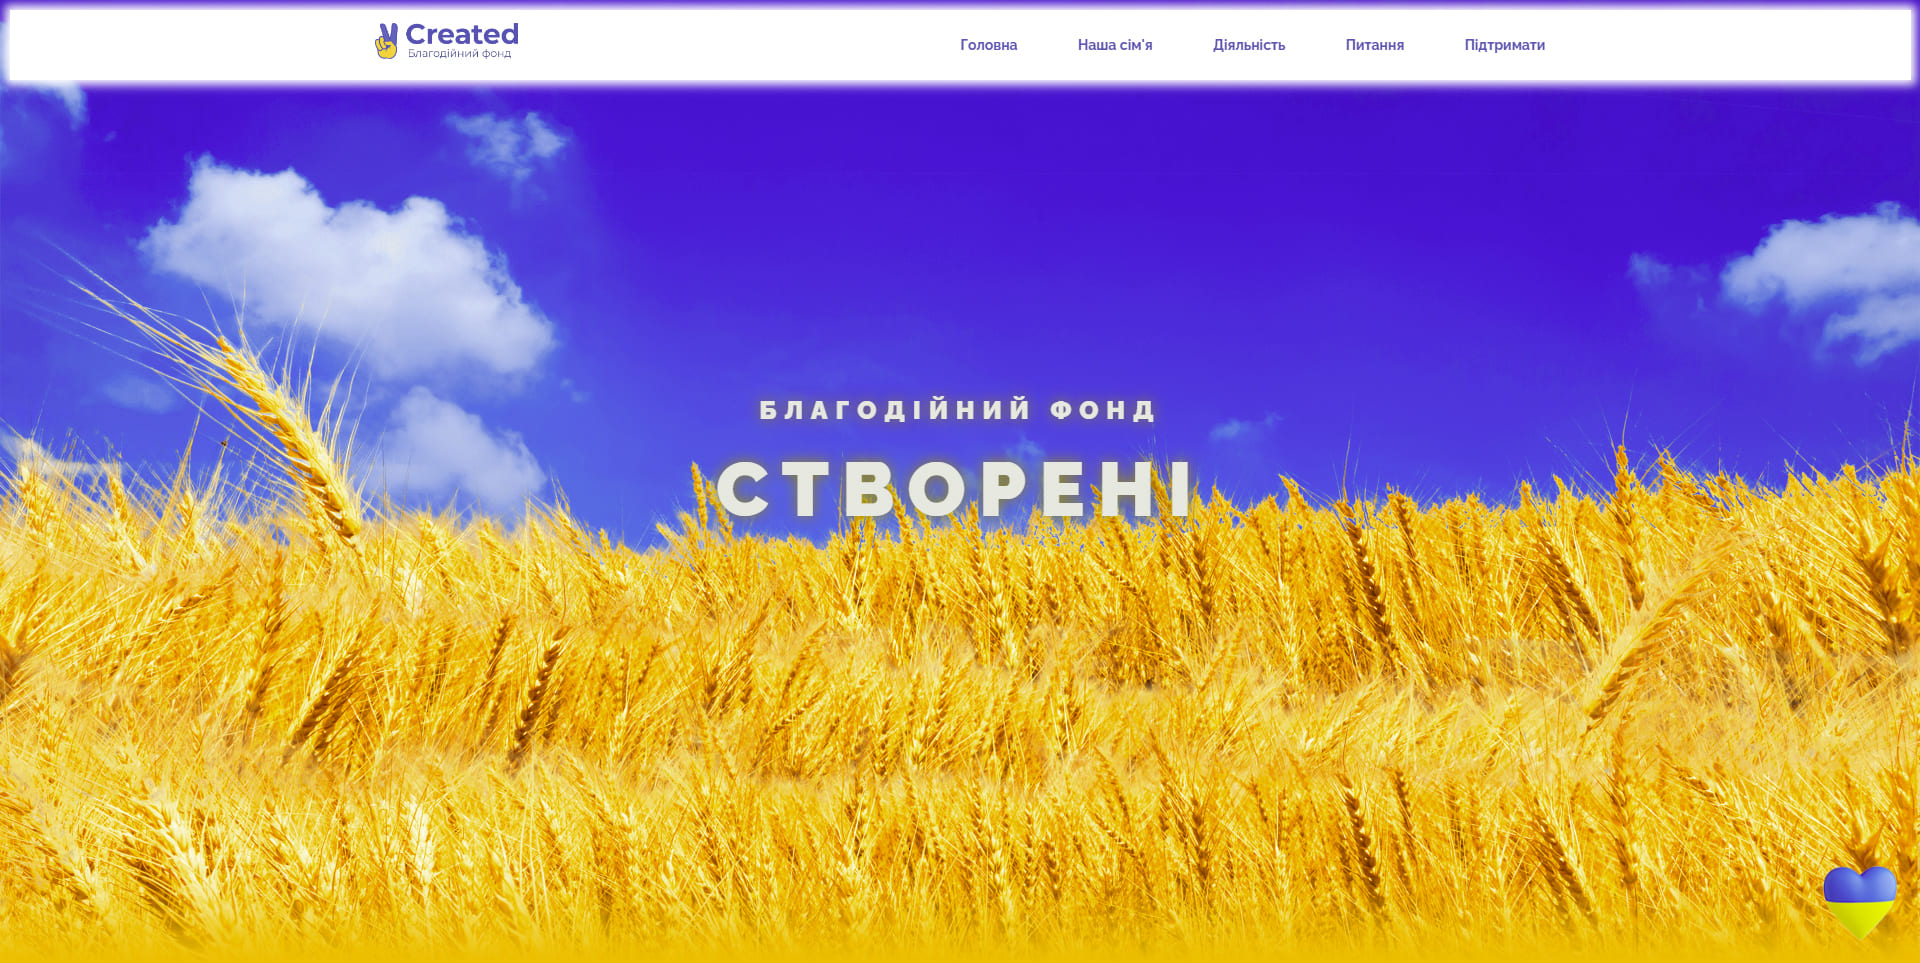
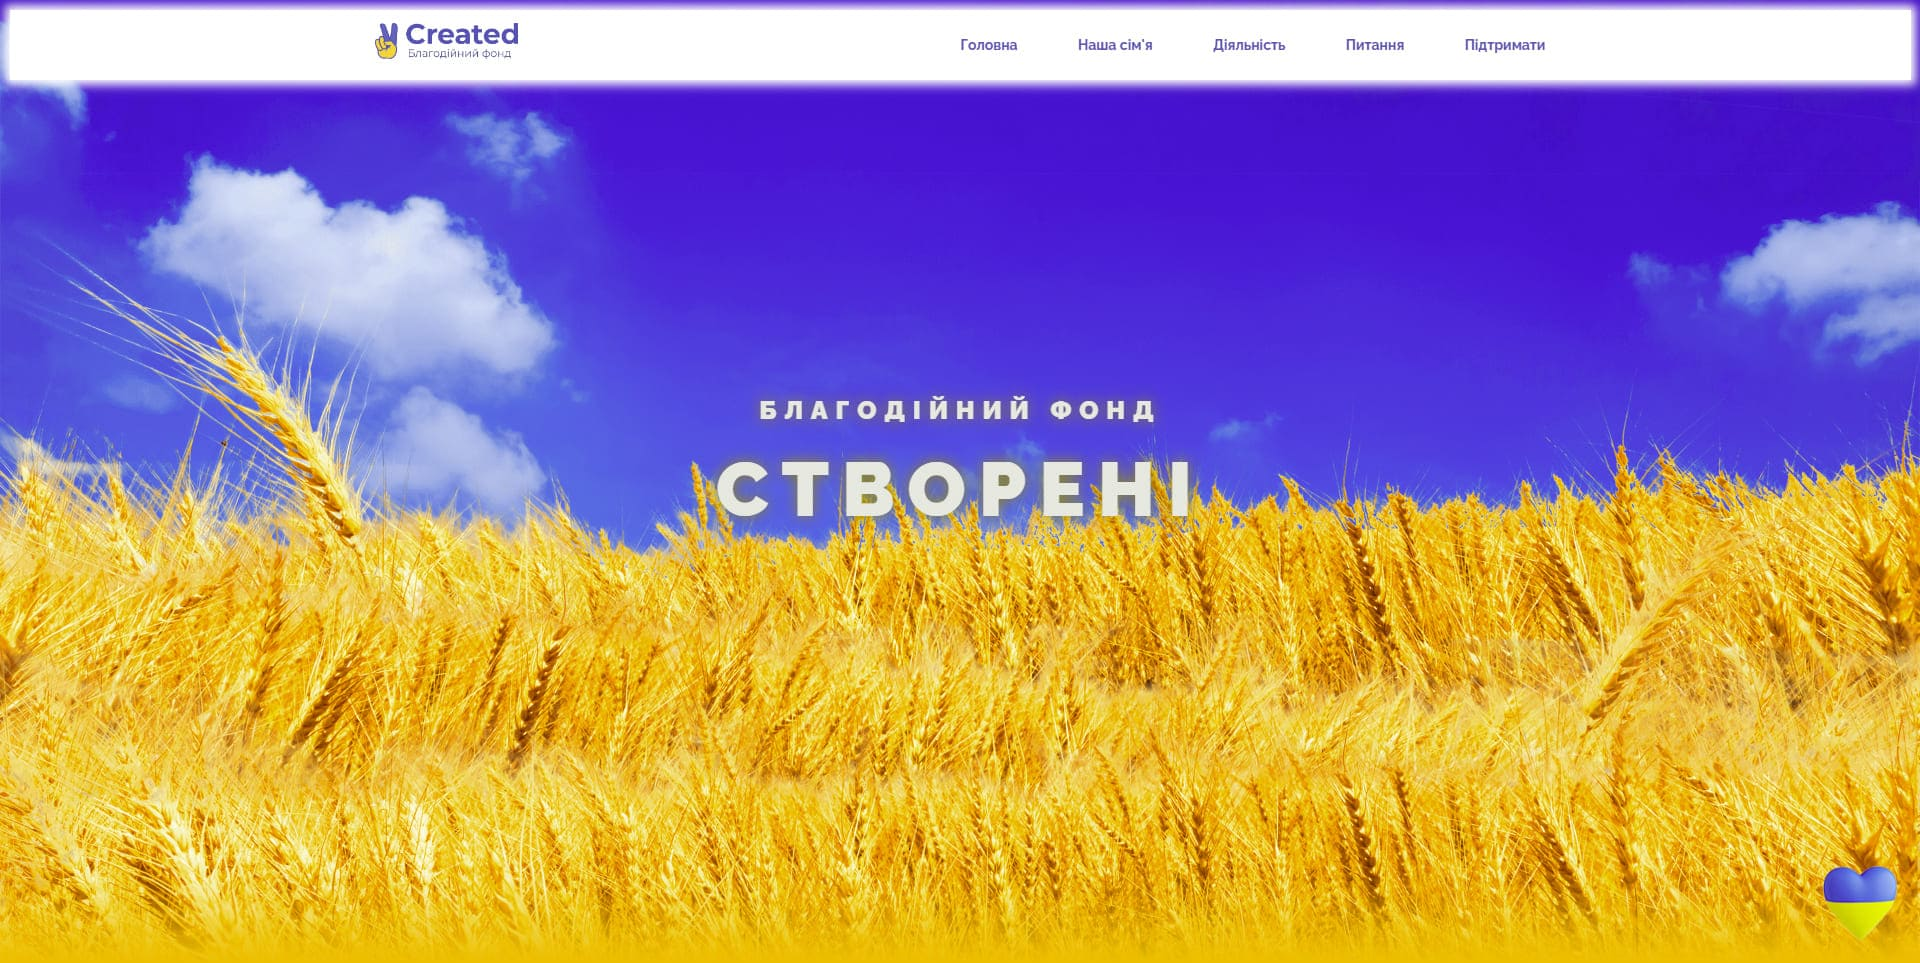
burger menu

diff --git a/src/components/Nav/Nav.tsx b/src/components/Nav/Nav.tsx
@@ -1,25 +1,32 @@
-import React from 'react';
-import Link from "next/link"
-import styles from './styles.module.css'
+"use client"
+import React, { useState } from 'react';
+import Link from "next/link";
+import styles from './styles.module.css';
 import Image from 'next/image';
-import logo from '../../../public/img/logo_reklamax.png'
+import logo from '../../../public/img/logo_reklamax.png';
 import MenuSvg from '../Svg/Menu/Menu';
 
 function Nav() {
+    const [click, setClick] = useState('');
+
+    const handleNavSvgClick = () => {
+        // Если текущее значение click равно 'active', убираем класс, иначе добавляем
+        setClick((prevClick) => (prevClick === 'active' ? '' : 'active'));
+    };
 
     return (
         <div className={styles.nav}>
-          <Image className={styles.logo} src={logo} alt="logo"/>
-          <div className={styles.navSvg}>
-            <MenuSvg/>
-          </div>
-          <div className={styles.navLinks}>
-            <Link href="/">Головна</Link>
-            <Link href="/products">Проекти</Link>
-            <Link href="/create">Створити</Link>
-          </div>
+            <Image priority={true} className={styles.logo} src={logo} alt="logo"/>
+            <div className={`${styles.navSvg} ${click === 'active' ? styles.navSvgActive : ''}`} onClick={handleNavSvgClick}>
+                <MenuSvg/>
+            </div>
+            <div className={`${styles.navLinks} ${click === 'active' ? styles.navLinksActive : ''}`}>
+                <Link href="/">Головна</Link>
+                <Link href="/products">Проекти</Link>
+                <Link href="/create">Створити</Link>
+            </div>
         </div>
-    )
-  }
-  
-  export default Nav
+    );
+}
+
+export default Nav;

diff --git a/src/components/Nav/styles.module.css b/src/components/Nav/styles.module.css
@@ -1,5 +1,6 @@
 .nav {
     position: relative;
+    z-index: 4;
     background-color: #000000;
     width: 100%;
     height: 60px;
@@ -57,7 +58,7 @@
         position: absolute;
         top: 70px;
         left: 0px;
-        z-index: 5;
+        z-index: 3;
         display: flex;
         flex-direction: column;
         justify-content: center;
@@ -66,10 +67,23 @@
         border: 1px solid #fff;
         box-shadow: 0 0 2px #ffffff;
         border-radius: 10px;
+        transform: translateY(-120%);
+        opacity: 0;
+        transition: all 0.2s;
+    }
+
+    .navLinksActive {
+        opacity: 1;
+        transform: translateY(0%);
     }
 
     .navSvg {
         display: block;
+        transition: all 0.2s;
+    }
+
+    .navSvgActive {
+        transform: rotate(180deg);
     }
     
     .navSvg svg {
@@ -77,13 +91,15 @@
         transition: all 0.2s;
     }
     
-    .navSvg svg:hover {
-        transform: rotate(180deg);
-    }
-    
     .navSvg svg:active {
         position: relative;
         top: 2px;
         stroke: #46c2a0 !important;
+    }
+
+    .nav a {
+        margin-right: 0px;
+        padding: 10px;
+        font-size: 36px;
     }
 }

diff --git a/src/components/Footer/Footer.tsx b/src/components/Footer/Footer.tsx
@@ -1,16 +1,18 @@
 import React from 'react';
-import styles from './styles.module.css'
+import Link from 'next/link';
+import Image from 'next/image';
+import logoMini from '../../../public/img/Logo_reklamaxMini.png';
 import CopyrightSvg from '../Svg/CopyrightSvg/CopyrightSvg';
 import InstaSvg from '../Svg/InstaSvg/InstaSvg';
 import TgSvg from '../Svg/TgSvg/TgSvg';
 import GmailSvg from '../Svg/GmailSvg/GmailSvg';
-import Link from 'next/link';
+import styles from './styles.module.css'
 
 function Footer() {
     return (
         <footer className={styles.footer}>
             <div className={styles.flex}>
-                <div className={styles.gif}></div>
+                <Image src={logoMini} className={styles.gif} alt='error img'/>
                 <div className={styles.links}>
                     <Link href="/" className={styles.link}>Головна</Link>
                     <Link href="/products" className={styles.link}>Проекти</Link>

diff --git a/src/app/products/[productId]/page.tsx b/src/app/products/[productId]/page.tsx
@@ -1,7 +1,6 @@
 import { Metadata } from "next";
 import ParticleAnimation from "@/components/particleAnimation/ParticleAnimation";
 import { projects } from "@/helpers/projectList";
-import Image from "next/image";
 import Footer from "@/components/Footer/Footer";
 import Nav from "@/components/Nav/Nav";
 import styles from "../../../styles/project.module.css";
@@ -40,7 +39,6 @@ export default function ProductDetails({ params }: Props) {
           <Nav />
           <div className={styles.proX}>
             <div className={styles.projectX}>
-              {/* <Image src={project.imgBig} alt="error" className={styles.project__imgX} width={800} height={600} /> */}
               <iframe className={styles.project__imgX} src={project.link}></iframe>
               <div className={styles.project__titleHoldX}>
                 <h3 className={styles.project__titleX}>{project.title}</h3>

diff --git a/src/components/About/styles.module.css b/src/components/About/styles.module.css
@@ -40,6 +40,7 @@
     box-shadow: 0 0 2px #ffffff;
     transition-delay: 1s;
 }
+
 .block5:hover {
     border: 1px solid #46c2a0;
     box-shadow: 0 0 2px #46c2a0;
@@ -111,4 +112,33 @@
 .btn:active {
     position: relative;
     bottom: -2px;
+}
+
+@media (max-width: 430px) {
+    .info {
+        flex-direction: column;
+        align-items: center;
+    }
+
+    .block1,.block2,.block3,.block4,.block5 {
+        margin: 20px;
+    }
+
+    .line {
+        content: "";
+        width: 2px;
+        height: 0px;
+        background-color: #46c2a0;
+        box-shadow: 0 0 2px #46c2a0;
+        position: absolute;
+        top: 30px;
+        left: 210px;
+        z-index: -1;
+        transition: height 1.8s ease;
+    }
+
+    .about:hover .line {
+        height: 1100px;
+        width: 2px;
+    }
 }

diff --git a/src/styles/globals.css b/src/styles/globals.css
@@ -50,6 +50,17 @@ body::-webkit-scrollbar-thumb:hover {
   overflow: hidden;
 }
 
+iframe {
+  overflow: hidden;
+  scrollbar-width: none;
+  -ms-overflow-style: none;
+  overflow: -moz-scrollbars-none;
+}
+
+iframe::-webkit-scrollbar {
+  display: none;
+}
+
 a {
   text-decoration: none;
   color: white;
@@ -58,7 +69,7 @@ a {
 .main {
   width: 100%;
   position: relative;
-  z-index: 3;
+  z-index: 4;
 }
 
 .container {

diff --git a/src/components/Footer/styles.module.css b/src/components/Footer/styles.module.css
@@ -36,7 +36,6 @@
 .gif {
     width: 150px;
     height: 150px;
-    background-color: red;
     margin: 10px;
 }
 
@@ -100,4 +99,12 @@
     font-size: 16px;
     margin-left: 10px;
     color: #fff;
+}
+
+@media (max-width: 430px) {
+    .flex2 {
+        flex-direction: column-reverse;
+        align-items: center;
+        padding: 10px 0px;
+    }
 }

diff --git a/src/styles/project.module.css b/src/styles/project.module.css
@@ -118,3 +118,17 @@
 .skillsX {
   color: white;   
 }
+
+@media (max-width: 430px) {
+  .projectsHold {
+    flex-direction: column;
+  }
+  
+  .linksX {
+    display: block;
+  }
+
+  .projectX {
+    margin: 100px 0px;
+  }
+}

diff --git a/src/components/Header/styles.module.css b/src/components/Header/styles.module.css
@@ -49,3 +49,14 @@
 .header__text p + p {
     margin-top: 0.5em;
 }
+
+@media (max-width: 430px) {
+    .header__title {
+        font-size: 18px;
+    }
+
+    .header__title strong {
+        font-size: 28px;
+    }
+
+}
